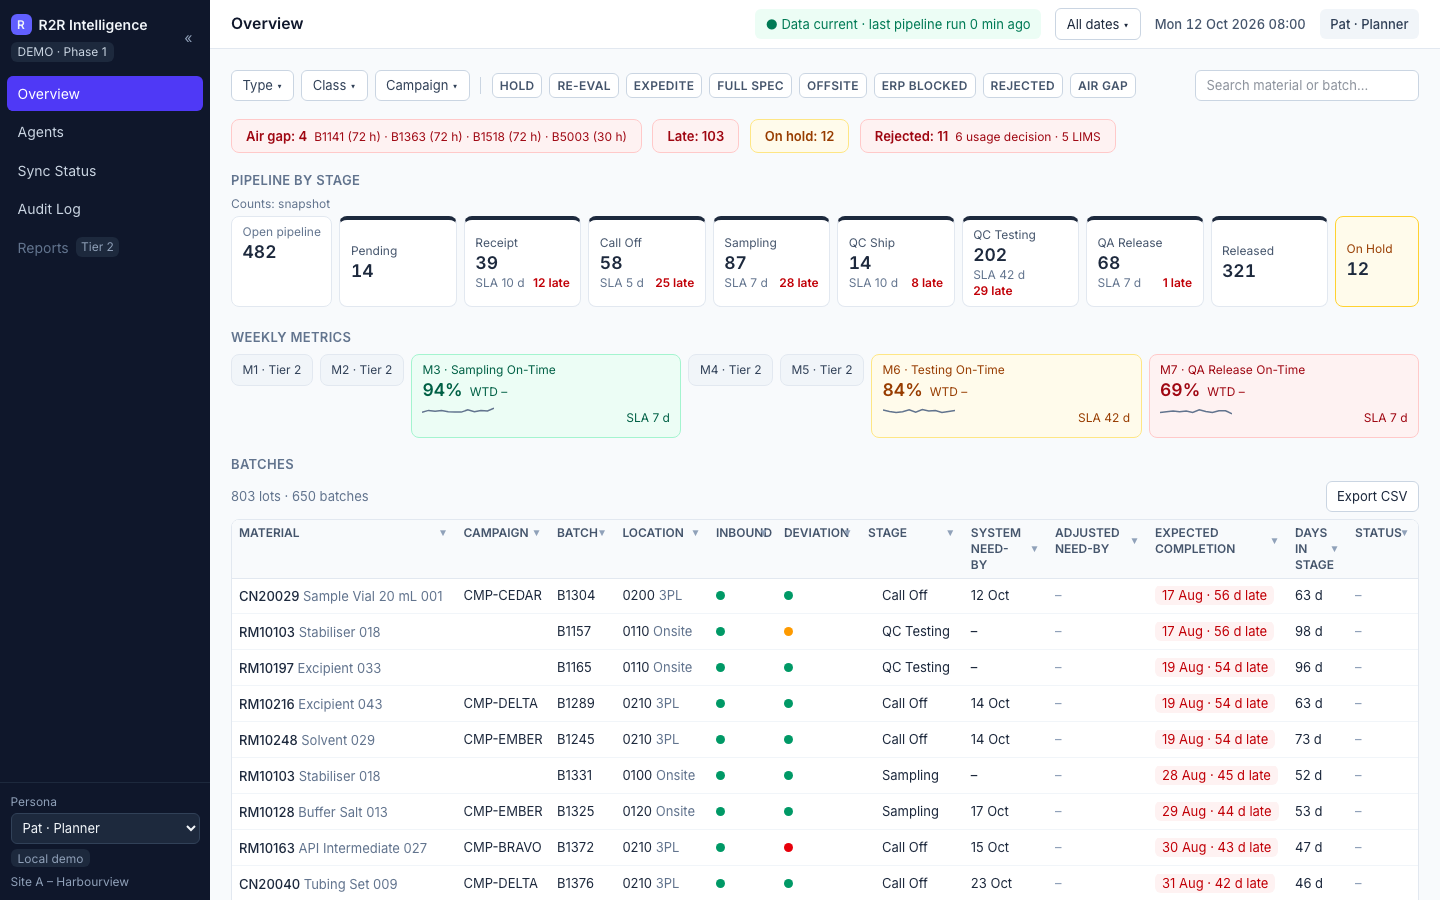
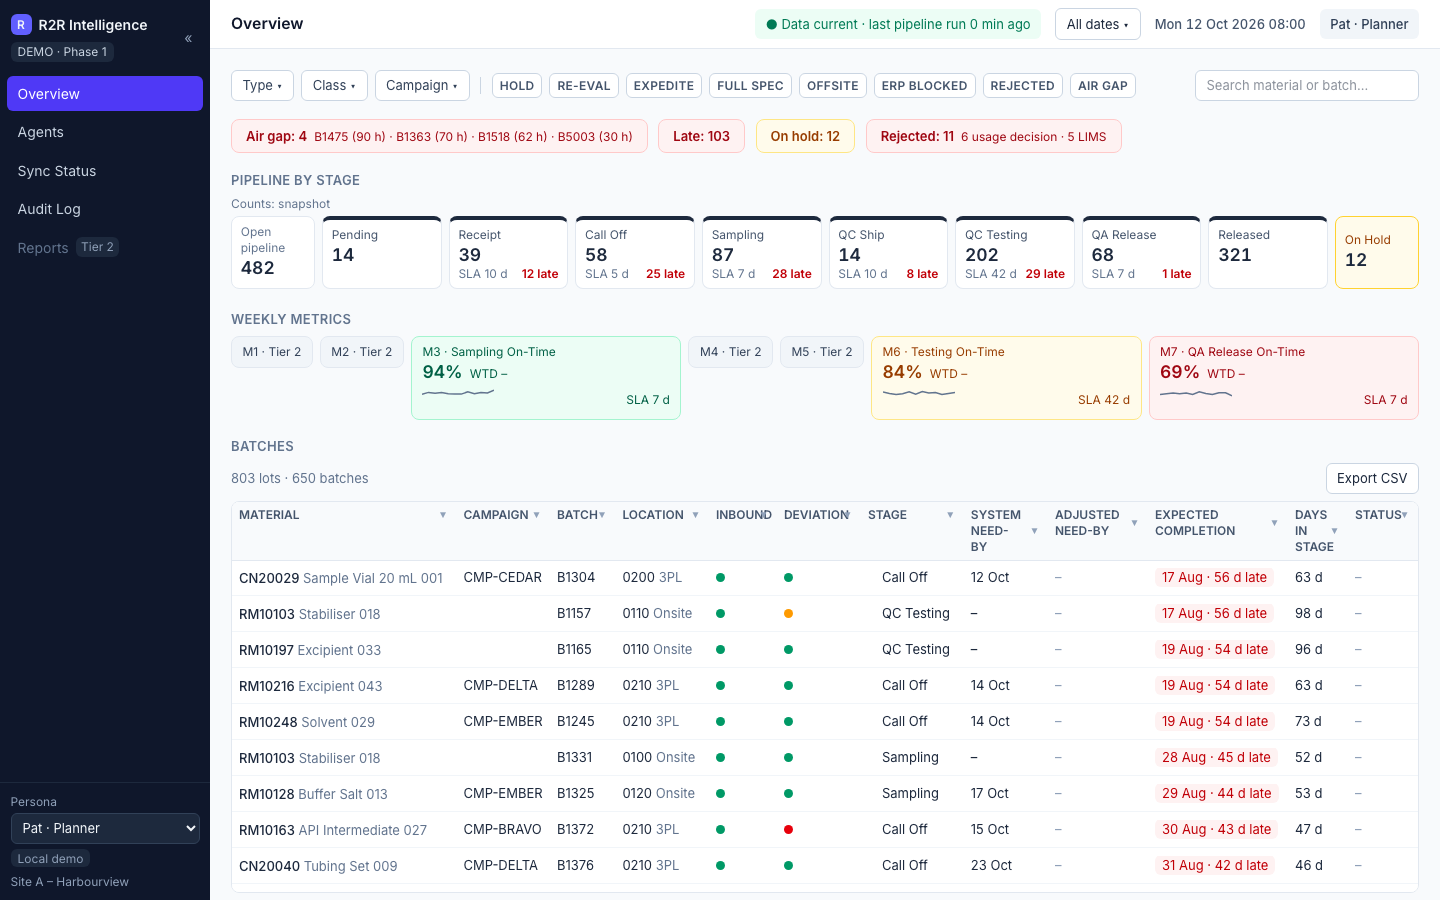
feat(F10): varied air-gap ages (62/70/90 h plus B5003 at 30 h), equal-height flow cards with a single-line SLA and late footer

diff --git a/frontend/src/components/flow-strip/FlowStrip.tsx b/frontend/src/components/flow-strip/FlowStrip.tsx
@@ -30,7 +30,7 @@ export function FlowStrip({ entries, stages, mode, onHoldCount, activeStage, onH
         Counts: {MODE_CAPTION[mode]}
       </p>
       <div className="flex gap-2 overflow-x-auto pb-1">
-        <div className="min-w-24 rounded-card border border-slate-200 bg-white px-3 py-2">
+        <div className="w-24 shrink-0 rounded-card border border-slate-200 bg-white px-2.5 py-2">
           <div className="text-xs text-slate-500">Open pipeline</div>
           <div className="text-xl font-semibold tabular-nums" data-testid="flow-total">
             {total}
@@ -46,13 +46,13 @@ export function FlowStrip({ entries, stages, mode, onHoldCount, activeStage, onH
               aria-pressed={active}
               onClick={() => onToggleStage(entry.stage_key)}
               style={{ borderTopColor: `var(--color-stage-${(index % 8) + 1})` }}
-              className={`min-w-28 flex-1 rounded-card border border-t-4 border-slate-200 bg-white px-3 py-2 text-left hover:shadow ${
+              className={`min-w-24 flex-1 rounded-card border border-t-4 border-slate-200 bg-white px-2.5 py-2 text-left hover:shadow ${
                 active ? 'ring-2 ring-indigo-600' : ''
               }`}
             >
               <div className="text-xs text-slate-600">{entry.label}</div>
               <div className="text-xl font-semibold tabular-nums">{entry.count}</div>
-              <div className="flex flex-wrap items-center justify-between gap-x-2 text-xs whitespace-nowrap">
+              <div className="flex h-4 items-center justify-between gap-1.5 text-xs whitespace-nowrap">
                 <span className="text-slate-500">
                   {(sla.get(entry.stage_key) ?? 0) > 0 ? `SLA ${sla.get(entry.stage_key)} d` : ''}
                 </span>
@@ -70,7 +70,7 @@ export function FlowStrip({ entries, stages, mode, onHoldCount, activeStage, onH
           data-testid="flow-on_hold"
           aria-pressed={onHoldActive}
           onClick={onToggleHold}
-          className={`min-w-24 rounded-card border border-amber-300 bg-amber-50 px-3 py-2 text-left hover:shadow ${onHoldActive ? 'ring-2 ring-indigo-600' : ''}`}
+          className={`w-24 shrink-0 rounded-card border border-amber-300 bg-amber-50 px-2.5 py-2 text-left hover:shadow ${onHoldActive ? 'ring-2 ring-indigo-600' : ''}`}
         >
           <div className="text-xs text-amber-800">On Hold</div>
           <div className="text-xl font-semibold tabular-nums">{onHoldCount}</div>

diff --git a/tests/e2e/specs/01-overview-load.spec.ts b/tests/e2e/specs/01-overview-load.spec.ts
@@ -19,3 +19,17 @@ test('F10-AC-01: the Overview loads with seeded data in under 2 s and renders ev
   await expect(page.getByTestId('demo-clock')).toContainText('Mon 12 Oct 2026')
   expect(errors, 'console errors').toEqual([])
 })
+
+test('F10 review: all flow cards are the same height and the "SLA · late" line never wraps at 1440 px', async ({ page }) => {
+  await page.goto('/overview')
+  const cards = page.locator('button[data-testid^="flow-"]')
+  await expect(cards.first()).toBeVisible()
+  const heights = await cards.evaluateAll((nodes) => nodes.map((node) => Math.round(node.getBoundingClientRect().height)))
+  expect(new Set(heights).size, `card heights ${heights}`).toBe(1)
+  const footers = page.locator('button[data-testid^="flow-"] .whitespace-nowrap')
+  const lines = await footers.evaluateAll((nodes) => nodes.map((node) => Math.round(node.getBoundingClientRect().height)))
+  expect(lines.length).toBeGreaterThan(0)
+  expect(Math.max(...lines), `footer heights ${lines}`).toBeLessThanOrEqual(16)
+  const overflowing = await footers.evaluateAll((nodes) => nodes.filter((node) => node.scrollWidth > node.clientWidth).length)
+  expect(overflowing, 'footers wider than their card').toBe(0)
+})

diff --git a/services/datagen/src/datagen/quirks.py b/services/datagen/src/datagen/quirks.py
@@ -60,14 +60,14 @@ OPEN_CAUSE = "Not yet determined"
 OWNERS = ("QA", "QA", "Warehouse", "QC Lab")
 
 
-def apply_quirks(plan: Plan, params: Params) -> None:
+def apply_quirks(plan: Plan, params: Params, profile: SiteProfile) -> None:
     rng = stream(plan.seed, "quirks")
     used: set[int] = set()
     _failed_checks(plan, params, rng, used)
     _rejected_uds(plan, params, rng, used)
     _holds_and_blocks(plan, params, rng, used)
     _lims_retests(plan, rng, used)
-    _results_recorded(plan, params, rng)
+    _results_recorded(plan, params, rng, profile)
     _deviations(plan, params, rng)
 
 
@@ -194,14 +194,17 @@ def _lims_retests(plan: Plan, rng: random.Random, used: set[int]) -> None:
         lot.tags.append("lims_retest")
 
 
-def _results_recorded(plan: Plan, params: Params, rng: random.Random) -> None:
+def _results_recorded(plan: Plan, params: Params, rng: random.Random, profile: SiteProfile) -> None:
     """The interface records a lot's LIMS results in the ERP 1-6 hours after approval, except air gaps.
 
-    The air-gap quirk withholds the transfer on a few lots that have waited at least two days; B5003, fixed
-    by the story at 30 hours, is one of them. The others are at most `air_gap_max_age_days` old, so at the
-    canonical opening every air gap is 24 to 96 hours old. No other approved lot lacks the record.
+    The air-gap quirk withholds the transfer on a few lots; B5003, fixed by the story at 30 hours, is one of
+    them. The others are approved at `air_gap_ages_hours` before the opening instant (for example 62, 70 and
+    90 hours; the opening is a Monday, so ages of 32 to 55 hours would fall on a weekend), so the air-gap list
+    shows a spread of ages inside the 24 to 96 hour band. A lot is eligible for a target age when it was
+    already approved on the site-local day of that instant. No other approved lot lacks the record.
     """
     cal = plan.calendar
+    opening = profile.demo.start_datetime.astimezone(UTC)
     pool = [
         lot
         for b, lot in _in_flight(plan)
@@ -209,10 +212,18 @@ def _results_recorded(plan: Plan, params: Params, rng: random.Random) -> None:
         and lot.ud_code is None
         and lot.latest is not None
         and lot.latest.closed_on is not None
-        and 2 <= (cal.today - lot.latest.closed_on).days <= params.quirks.air_gap_max_age_days
+        and 2 <= (cal.today - lot.latest.closed_on).days <= 5
     ]
     fixed = sum(1 for _, lot in plan.lots() if "air_gap" in lot.tags)
-    for lot in rng.sample(pool, max(0, params.quirks.air_gap_lots - fixed)):
+    ages = params.quirks.air_gap_ages_hours[: max(0, params.quirks.air_gap_lots - fixed)]
+    for hours in ages:
+        approved = opening - timedelta(hours=hours)
+        day = approved.astimezone(profile.site.tz).date()
+        candidates = [lot for lot in pool if lot.latest is not None and lot.latest.closed_on == day]
+        lot = rng.choice(candidates)
+        pool.remove(lot)
+        assert lot.latest is not None
+        lot.latest.approved_at = approved
         lot.tags.append("air_gap")
     for _, lot in plan.lots():
         sample = lot.latest

diff --git a/services/datagen/tests/test_quirks.py b/services/datagen/tests/test_quirks.py
@@ -132,5 +132,8 @@ def test_f10_review_every_air_gap_is_between_24_and_96_hours_old_at_demo_start(
         if "air_gap" in lot.tags and sample is not None and sample.closed_on is not None:
             approved = sample.approved_at or datetime.combine(sample.closed_on, time(6), tzinfo=UTC)
             ages[batch.charg] = (now - approved).total_seconds() / 3600
-    assert ages and all(24 <= hours <= 96 for hours in ages.values()), ages
+    assert len(ages) >= 3 and all(24 <= hours <= 96 for hours in ages.values()), ages
     assert round(ages["B5003"]) == 30
+    # The withheld lots are approved at different times, so the air-gap alert shows a spread of ages.
+    assert len({round(hours) for hours in ages.values()}) == len(ages), ages
+    assert sorted(round(hours) for hours in ages.values()) == [30, 62, 70, 90]

diff --git a/services/datagen/src/datagen/planner.py b/services/datagen/src/datagen/planner.py
@@ -54,7 +54,7 @@ def build_plan(profile: SiteProfile, params: Params, seed: int, world: World | N
     for batch, lot in plan.lots():
         builder.verify(batch, lot)
     _need_by_and_demand(builder, plan, story)
-    apply_quirks(plan, params)
+    apply_quirks(plan, params, profile)
     return plan
 
 

diff --git a/services/datagen/src/datagen/params.py b/services/datagen/src/datagen/params.py
@@ -81,7 +81,7 @@ class Quirks(_Model):
     released_holds: int
     erp_blocked_batches: int
     air_gap_lots: int
-    air_gap_max_age_days: int
+    air_gap_ages_hours: list[int]
     quantities: list[int]
 
 
